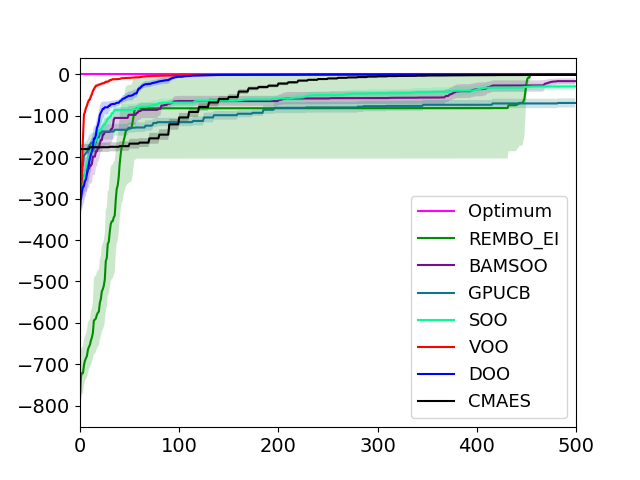
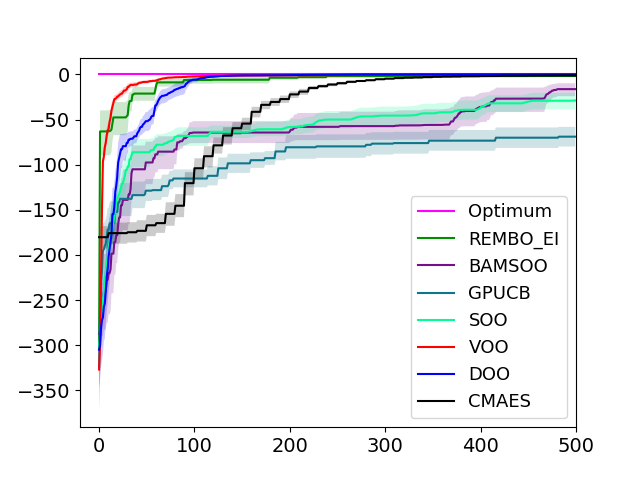
fixing epsilons for remboei

diff --git a/plotters/plot_optimization_algorithms.py b/plotters/plot_optimization_algorithms.py
@@ -75,8 +75,8 @@ def get_optimal_epsilon_idx(result_dir):
     if len(max_y) < 500 and not ('cmaes' in result_dir):
         return None
     else:
-        if 'rembo_gpucb' in result_dir:
-            return 2 # 0, 1, 2
+        if 'rembo' in result_dir:
+            return -1 # 0, 1, 2
             print 'best', epsilons.index(max_esp)
             return epsilons.index(max_esp)
             return 1
@@ -205,7 +205,7 @@ def plot_across_algorithms():
         # print algo, n_samples, np.mean(search_rwd_times[:, -1])
         # print "===================="
 
-    plt.xlim(0, n_samples)
+    plt.xlim(-20, n_samples)
     savefig('Number of function evaluations', 'Best function values',
             fname='./plotters/' + args.obj_fcn + '_fcn_optimization_' + str(args.dim))
 

diff --git a/test_scripts/test_optimization_algorithms.py b/test_scripts/test_optimization_algorithms.py
@@ -433,7 +433,8 @@ def get_exploration_parameters(algorithm):
     elif algorithm.__name__ == 'bamsoo':
         epsilons = [0.1, 0.7, 0.9]
     elif algorithm.__name__ == 'rembo_ei':
-        epsilons = [1, 10, 20, 30]
+        #epsilons = [1, 10, 20, 30]
+        epsilons = [50, 60, 70]
     else:
         print algorithm.__name__
         raise NotImplementedError
